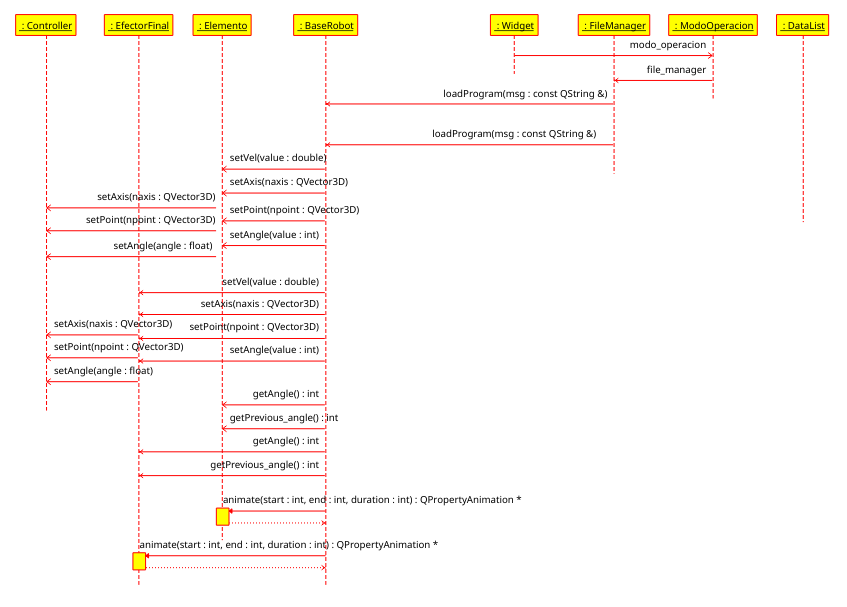
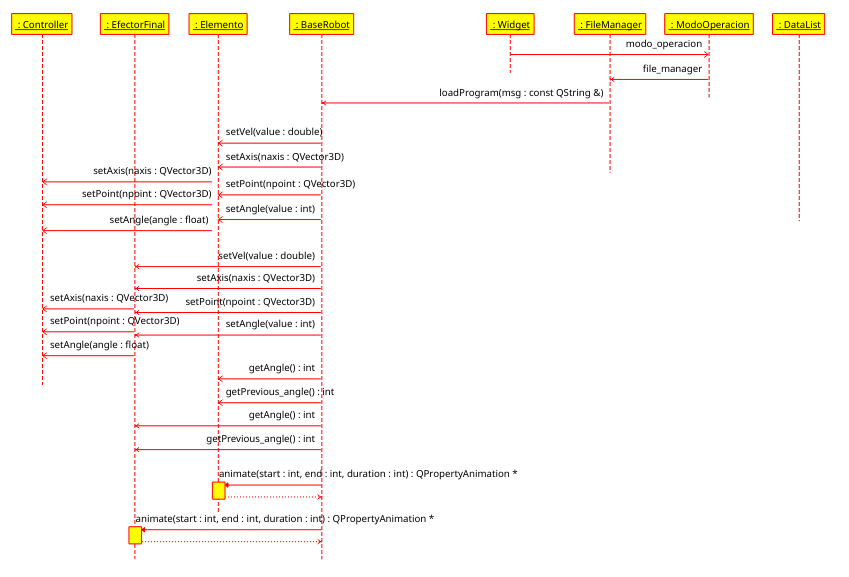
[CUIDADO] las rotaciones siguen estando mal

Changed region(s): [[0.0, 0.0, 0.9823, 0.9671]]

diff --git a/baserobot.cpp b/baserobot.cpp
@@ -157,7 +157,7 @@ void BaseRobot::gdl1Changed(int value){
     if (this->estado == ACTIVE){
         std::cout << "GDL1: " << value << std::endl;
         // Alarma
-        QSound::play(QStringLiteral("qrc:/assets/sound.wav"));
+        //QSound::play(QStringLiteral("qrc:/assets/sound.wav"));
 
         this->p2->setAxis(0, QVector3D(0, 1, 0));
         this->p3->setAxis(0, QVector3D(0, 1, 0));
@@ -180,7 +180,7 @@ void BaseRobot::gdl2Changed(int value){
     if (this->estado == ACTIVE){
         std::cout << "GDL2: " << value << std::endl;
         // Alarma
-        QSound::play(QStringLiteral("qrc:/assets/sound.wav"));
+        //QSound::play(QStringLiteral("qrc:/assets/sound.wav"));
         /*
         float axisX = float(m_sin(double(this->p2->getAngle(0))));
         float axisY = 0.0f;
@@ -201,20 +201,22 @@ void BaseRobot::gdl2Changed(int value){
         this->p4->setAngle(1, value);
         this->ef->setAngle(1, value);
         */
-        this->p2->setAxis(1, QVector3D(0, 0, 1));
+
+        //this->p2->setAxis(1, QVector3D(0, 0, 1));
         this->p3->setAxis(1, QVector3D(0, 0, 1));
         this->p4->setAxis(1, QVector3D(0, 0, 1));
         this->ef->setAxis(1, QVector3D(0, 0, 1));
 
-        this->p2->setPoint(1, QVector3D(0, 0, 0));
-        this->p3->setPoint(1, QVector3D(0, 0, 0));
-        this->p4->setPoint(1, QVector3D(0, 0, 0));
-        this->ef->setPoint(1, QVector3D(0, 0, 0));
+        //this->p2->setPoint(1, QVector3D(0.65 + 2.35, 9.1f, 0));
+        this->p3->setPoint(1, QVector3D(0.65 + 2.35, 9.1f, 0));
+        this->p4->setPoint(1, QVector3D(0.65 + 2.35, 9.1f, 0));
+        this->ef->setPoint(1, QVector3D(0.65 + 2.35, 9.1f, 0));
 
         this->p2->setAngle(1, value);
         this->p3->setAngle(1, value);
         this->p4->setAngle(1, value);
         this->ef->setAngle(1, value);
+
     }
 }
 
@@ -223,7 +225,7 @@ void BaseRobot::gdl3Changed(int value){
         std::cout << "GDL3: " << value << std::endl;
         // Alarma
         QSound::play(QStringLiteral("qrc:/assets/sound.wav"));
-
+        /*
         // El casteo de las siguientes lineas debe corregirse
         double aux = - PIEZA3_LONG * m_sin(this->p3->getAngle(0));
         float auxX = static_cast<float>(this->p1->getPoint(2).x()) + 2.0f * static_cast<float>(m_cos(this->p2->getAngle(0)));
@@ -239,6 +241,16 @@ void BaseRobot::gdl3Changed(int value){
         this->ef->setPoint(2, QVector3D(auxX, auxY, auxZ));
 
         this->ef->setAngle(2, value);
+        */
+        this->p4->setAxis(2, QVector3D(0, 0, 1));
+        this->ef->setAxis(2, QVector3D(0, 0, 1));
+
+        this->p4->setPoint(1, QVector3D(0.65 + 2.35, 9.1f, float(PIEZA3_LONG) + 10.0f));
+        this->ef->setPoint(1, QVector3D(0.65 + 2.35, 9.1f, float(PIEZA3_LONG) + 10.0f));
+
+        this->p4->setAngle(2, value);
+        this->ef->setAngle(2, value);
+
     }
 }
 

diff --git a/controller.cpp b/controller.cpp
@@ -36,9 +36,30 @@ float Controller::angle() const {
     return m_angle;
 }
 
+/*
+ * Creo que encontré la solución al problema de las rotaciones,
+ * hay que premultiplicar por lo cambios previos las matrices 4x4
+ */
+
 void Controller::updateMatrix(){
-    m_target->setMatrix(this->target()->rotateAround(QVector3D(0, 0, 0), 90, QVector3D(0, 1, 0)));
-    m_target->setMatrix(this->target()->rotateAround(QVector3D(0, 0, 0), 90, QVector3D(0, 1, 0)) * this->target()->rotateAround(this->point, this->m_angle, this->axis));
+    QMatrix4x4 aux;
+    aux.setToIdentity();
+    if (this->n != 0){
+        aux = this->target()->rotateAround(this->_Point[0], this->_Angle[0], this->_Axis[0])*aux;
+    } //else {
+    //    aux = this->target()->rotateAround(this->prevPoint[0], this->prevAngle[0], this->prevAxis[0])*aux;
+    //}
+    if (this->n != 1){
+        aux = this->target()->rotateAround(this->_Point[1], this->_Angle[1], this->_Axis[1])*aux;
+    } //else {
+    //    aux = this->target()->rotateAround(this->prevPoint[1], this->prevAngle[1], this->prevAxis[1])*aux;
+    //}
+    if (this->n != 2){
+        aux = this->target()->rotateAround(this->_Point[2], this->_Angle[2], this->_Axis[2])*aux;
+    } //else {
+    //    aux = this->target()->rotateAround(this->prevPoint[2], this->prevAngle[2], this->prevAxis[2])*aux;
+    //}
+    m_target->setMatrix(this->target()->rotateAround(this->point, this->m_angle, this->axis)*aux);
 }
 
 void Controller::setAxis(QVector3D naxis){

diff --git a/elemento.cpp b/elemento.cpp
@@ -51,11 +51,23 @@ QPropertyAnimation *Elemento::animate(int start, int end, int duration, int n){
 }
 
 void Elemento::setAxis(int n, QVector3D naxis){
+    this->previous_axis[n] = this->axis[n];
+    this->axis[n] = naxis;
     this->cont[n]->setAxis(naxis);
+    for (int i=0; i<3; i++){
+        this->cont[i]->prevAxis[n] = this->previous_axis[i];
+        this->cont[i]->_Axis[n] = naxis;
+    }
 }
 
 void Elemento::setPoint(int n, QVector3D npoint){
+    this->previous_point[n] = this->point[n];
+    this->point[n] = npoint;
     this->cont[n]->setPoint(npoint);
+    for (int i=0; i<3; i++){
+        this->cont[i]->prevPoint[n] = this->previous_point[i];
+        this->cont[i]->_Point[n] = npoint;
+    }
 }
 
 QVector3D Elemento::getAxis(int n){
@@ -81,6 +93,11 @@ void Elemento::setAngle(int n, int value){
         this->duration = static_cast<int>(std::abs(this->angle[n] - this->previous_angle[n])*1000*(M_PI/180)/this->vel);
     } else {
         this->duration = static_cast<int>(INFINITY);
+    }
+    for (int i=0; i<3; i++){
+        this->cont[i]->n = n;
+        this->cont[i]->prevAngle[n] = this->previous_angle[i];
+        this->cont[i]->_Angle[n] = value;
     }
 }
 

diff --git a/controller.h b/controller.h
@@ -42,6 +42,15 @@ class Controller : public QObject {
         QVector3D getAxis();
         QVector3D getPoint();
 
+        float _Angle[3] = {0, 0, 0};
+        float prevAngle[3] = {0, 0, 0};
+        QVector3D _Axis[3] = {QVector3D(0, 0, 0), QVector3D(0, 0, 0), QVector3D(0, 0, 0)};
+        QVector3D prevAxis[3] = {QVector3D(0, 0, 0), QVector3D(0, 0, 0), QVector3D(0, 0, 0)};
+        QVector3D _Point[3] = {QVector3D(0, 0, 0), QVector3D(0, 0, 0), QVector3D(0, 0, 0)};
+        QVector3D prevPoint[3] = {QVector3D(0, 0, 0), QVector3D(0, 0, 0), QVector3D(0, 0, 0)};
+
+        int n;
+
     signals:
         void targetChanged();
         void angleChanged();

diff --git a/elemento.h b/elemento.h
@@ -57,6 +57,12 @@ class Elemento : public QObject {
         int angle[3] = {0, 0, 0};
         int previous_angle[3] = {0, 0, 0};
 
+        QVector3D axis[3] = {QVector3D(0, 0, 0), QVector3D(0, 0, 0), QVector3D(0, 0, 0)};
+        QVector3D previous_axis[3] = {QVector3D(0, 0, 0), QVector3D(0, 0, 0), QVector3D(0, 0, 0)};
+
+        QVector3D point[3] = {QVector3D(0, 0, 0), QVector3D(0, 0, 0), QVector3D(0, 0, 0)};
+        QVector3D previous_point[3] = {QVector3D(0, 0, 0), QVector3D(0, 0, 0), QVector3D(0, 0, 0)};
+
         // Atributos asociados a la animación
         double vel = 0;
         int duration = 0;
